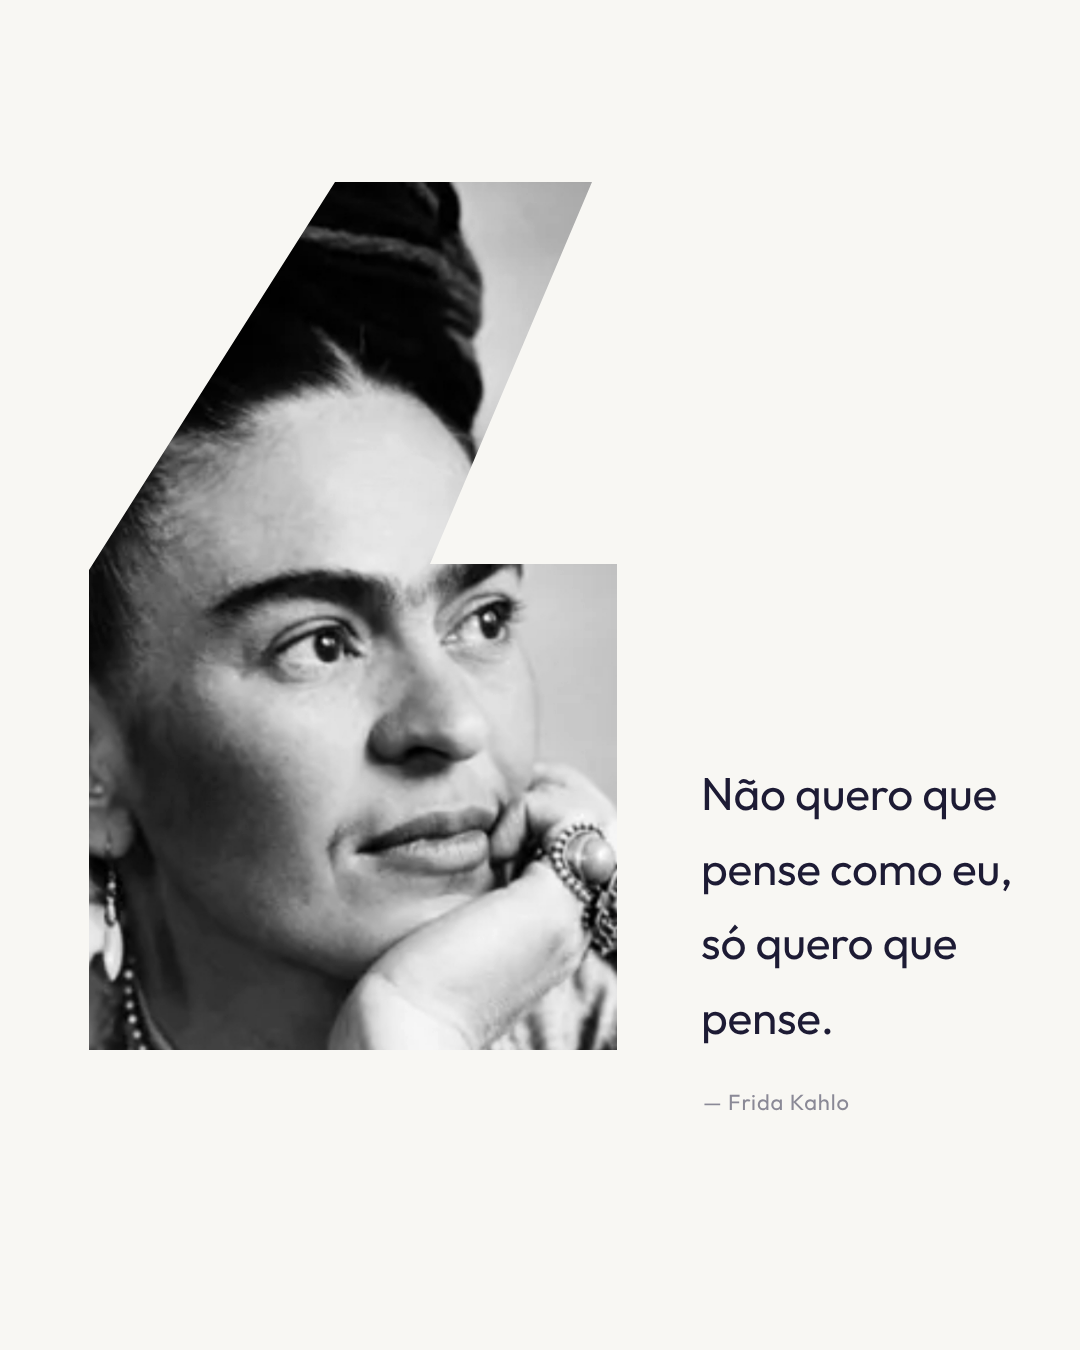
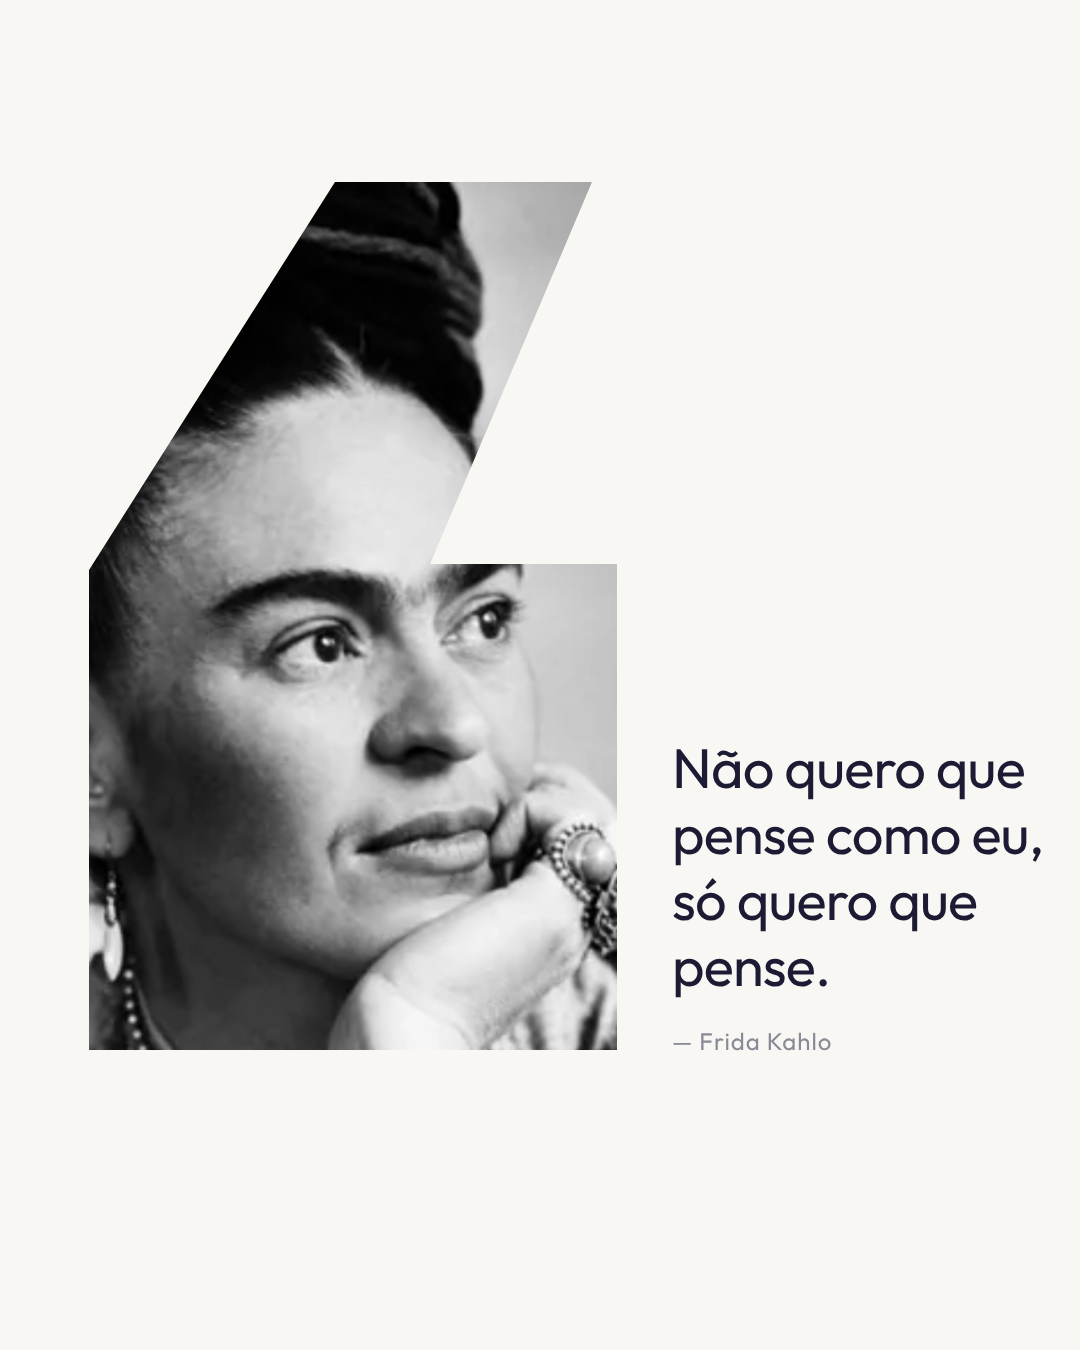
Tighten Frida quote leading, enlarge text, align signature to shape base
Claude-Session: https://claude.ai/code/session_01PxZLYp44R4EtTXSM1wnfqE

Changed region(s): [[0.6111, 0.56, 0.9472, 0.7778], [0.6722, 0.8089, 0.7639, 0.84]]

diff --git a/stories/frida-aspas.html b/stories/frida-aspas.html
@@ -18,10 +18,10 @@
     background:#cfcfcf url(frida-foto.jpg) no-repeat;
     background-size:763px auto;background-position:-139px 78px;
     filter:grayscale(1) contrast(1.05)}
-  .quote{position:absolute;left:701px;top:756px;width:350px;
-    font-family:'Outfit',sans-serif;font-weight:400;font-size:46px;line-height:1.62;color:var(--ink);letter-spacing:-.005em}
-  .author{position:absolute;left:703px;top:1088px;
-    font-family:'Outfit',sans-serif;font-weight:400;font-size:22px;letter-spacing:.04em;color:var(--muted)}
+  /* Texto ancorado na base do shape (y=1050): a assinatura assenta nessa linha. */
+  .text{position:absolute;left:672px;bottom:297px;width:380px;font-family:'Outfit',sans-serif}
+  .quote{font-weight:400;font-size:56px;line-height:1.18;color:var(--ink);letter-spacing:-.015em}
+  .author{margin-top:30px;font-weight:400;font-size:24px;line-height:1;letter-spacing:.04em;color:var(--muted)}
 </style>
 </head>
 <body>
@@ -29,8 +29,10 @@
 <div class="canvas">
   <div class="block">
     <div class="shape"></div>
-    <p class="quote">Não quero que pense como eu, só quero que pense.</p>
-    <p class="author">— Frida Kahlo</p>
+    <div class="text">
+      <p class="quote">Não quero que pense como eu, só quero que pense.</p>
+      <p class="author">— Frida Kahlo</p>
+    </div>
   </div>
 </div>
 </body>
